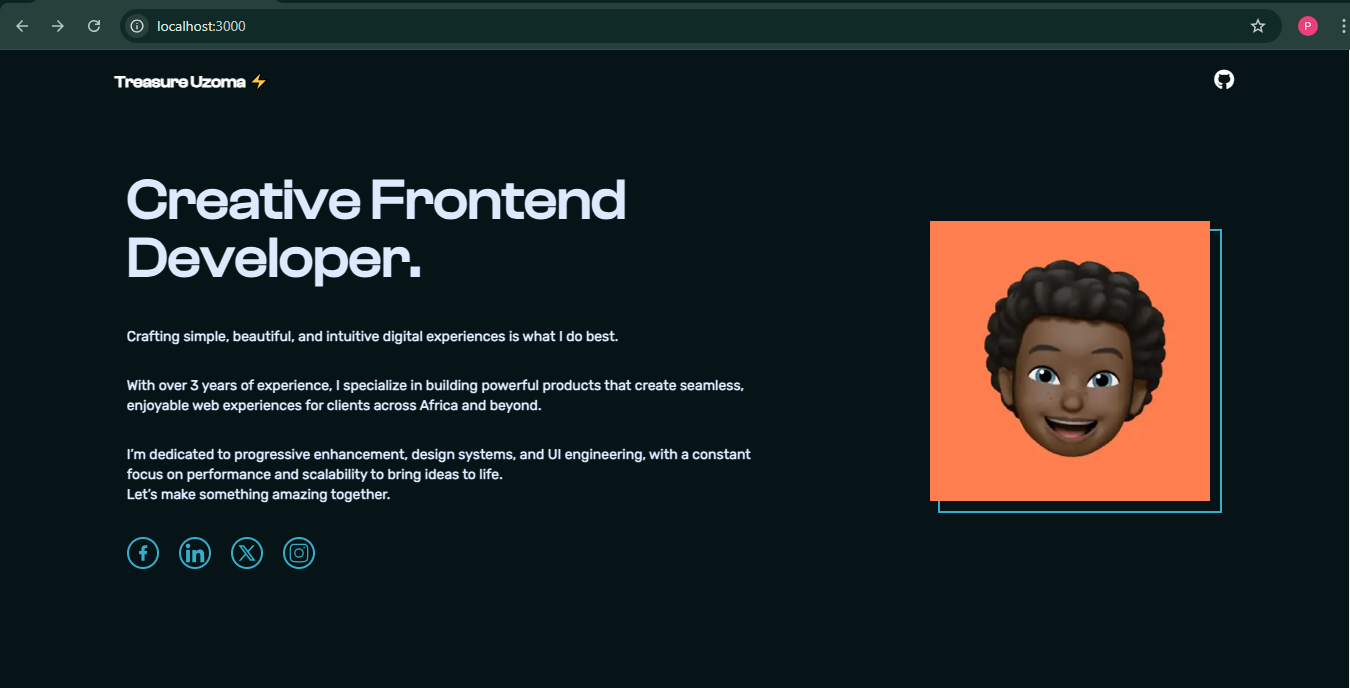
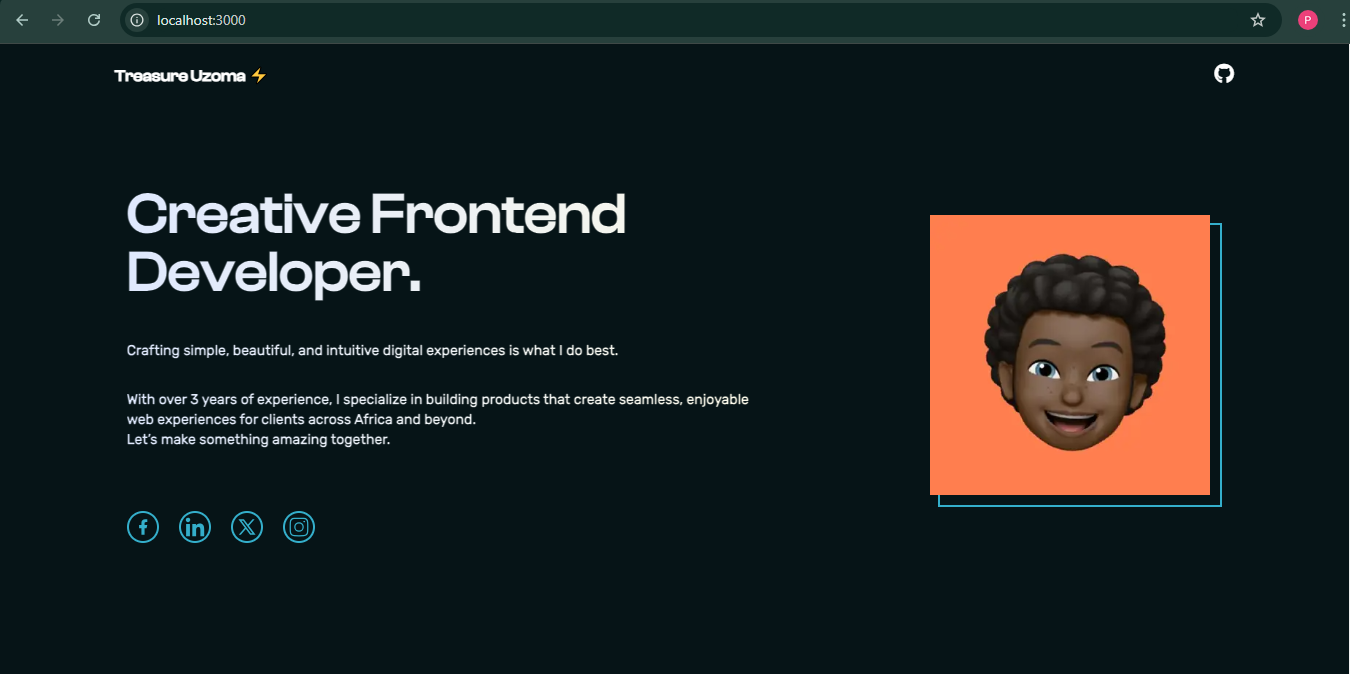
feat: reduced hero texts, added a theme, small ui tweaks

diff --git a/app/components/Portfolio.tsx b/app/components/Portfolio.tsx
@@ -75,7 +75,6 @@ const Portfolio = () => {
       description: "AI-powered GitHub profile roasts for humorous insights.",
       tags: ["JavaScript", "GithubAPI", "Tailwindcss", "ReactJs"],
       previewLink: "https://github-profile-roast.vercel.app/",
-      githubLink: "https://github.com/TreasureUzoma/GitHubRoast",
     },
     {
       title: "Tastrees Clone",
@@ -168,7 +167,7 @@ const Portfolio = () => {
                   <div className="flex justify-center items-center gap-3">
                     <a
                       href={project.previewLink}
-                      className="bg-white rounded-lg w-full mt-5 py-2 text-sm text-black space-x-3 justify-center text-center font-bold flex items-center hover:bg-gray-400"
+                      className="bg-white rounded-md w-full mt-5 py-2 text-sm text-black space-x-3 justify-center text-center font-bold flex items-center hover:bg-gray-400"
                       rel="nofollow"
                       target="_blank"
                     >
@@ -178,7 +177,7 @@ const Portfolio = () => {
                     {project.githubLink && (
                       <a
                         href={project.githubLink}
-                        className="bg-white rounded-lg w-[50%] mt-5 py-2 text-sm text-black space-x-3 justify-center text-center font-bold flex items-center hover:bg-gray-400"
+                        className="bg-white rounded-md w-[30%] mt-5 py-[0.59rem] text-sm text-black space-x-3 justify-center text-center font-bold flex items-center hover:bg-gray-400"
                         target="_blank"
                       >
                         <i className="!text-[1rem] fa-brands fa-github"></i>

diff --git a/app/components/Hero.tsx b/app/components/Hero.tsx
@@ -18,13 +18,8 @@ const Hero = () => {
               </p>
               <p className="gradient_text py-[1.8rem]">
                 With over 3 years of experience, I specialize in building
-                powerful products that create seamless, enjoyable web
+                products that create seamless, enjoyable web
                 experiences for clients across Africa and beyond.
-              </p>
-              <p className="gradient_text">
-                I’m dedicated to progressive enhancement, design systems, and UI
-                engineering, with a constant focus on performance and
-                scalability to bring ideas to life.
                 <br />
                 Let’s make something amazing together.
               </p>

diff --git a/app/components/Nav.tsx b/app/components/Nav.tsx
@@ -10,7 +10,7 @@ const Nav = () => {
                         href="https://www.github.com/TreasureUzoma"
                         target="_blank"
                     >
-                        <i className="fab fa-github text-[1.28rem]"></i>
+                        <i className="fab fa-github text-[1.28rem] hover:text-[1.33rem]"></i>
                     </a>
                 </div>
             </div>

diff --git a/app/layout.tsx b/app/layout.tsx
@@ -49,6 +49,7 @@ export default function RootLayout({
                     rel="stylesheet"
                     href="https://cdnjs.cloudflare.com/ajax/libs/font-awesome/6.0.0-beta3/css/all.min.css"
                 />
+                <meta name="theme-color" content="#061417" />
             </head>
             <body>{children}</body>
         </html>
